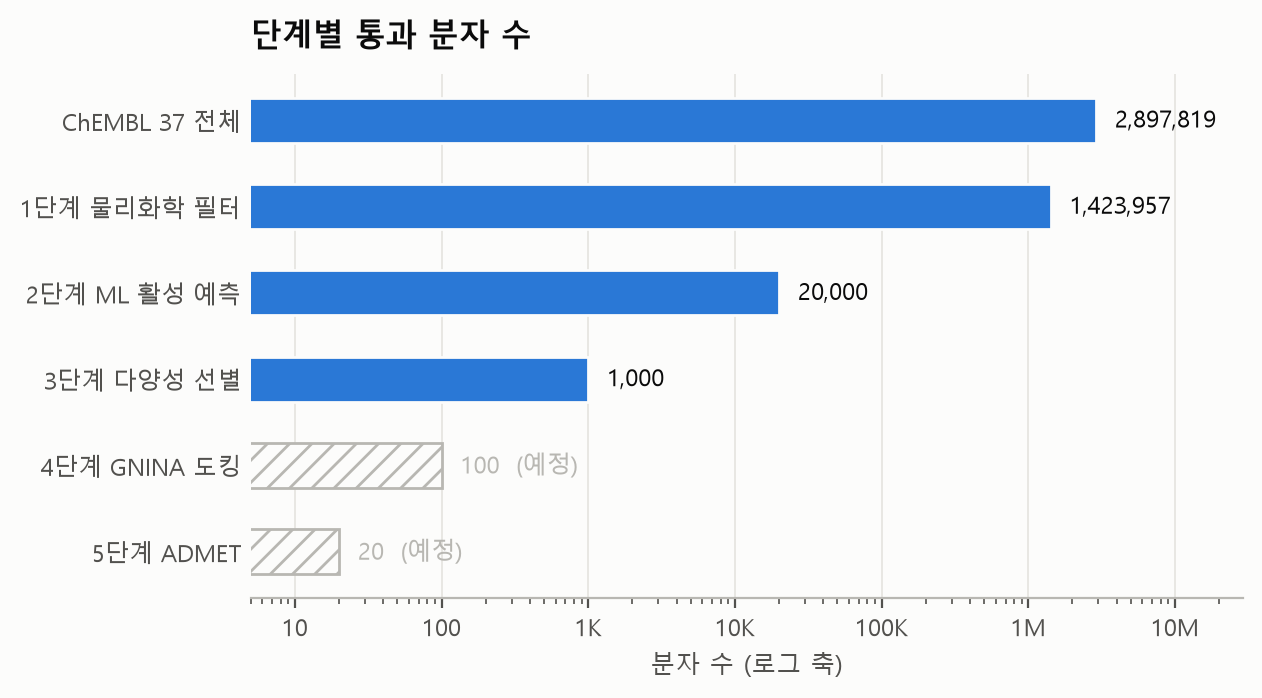
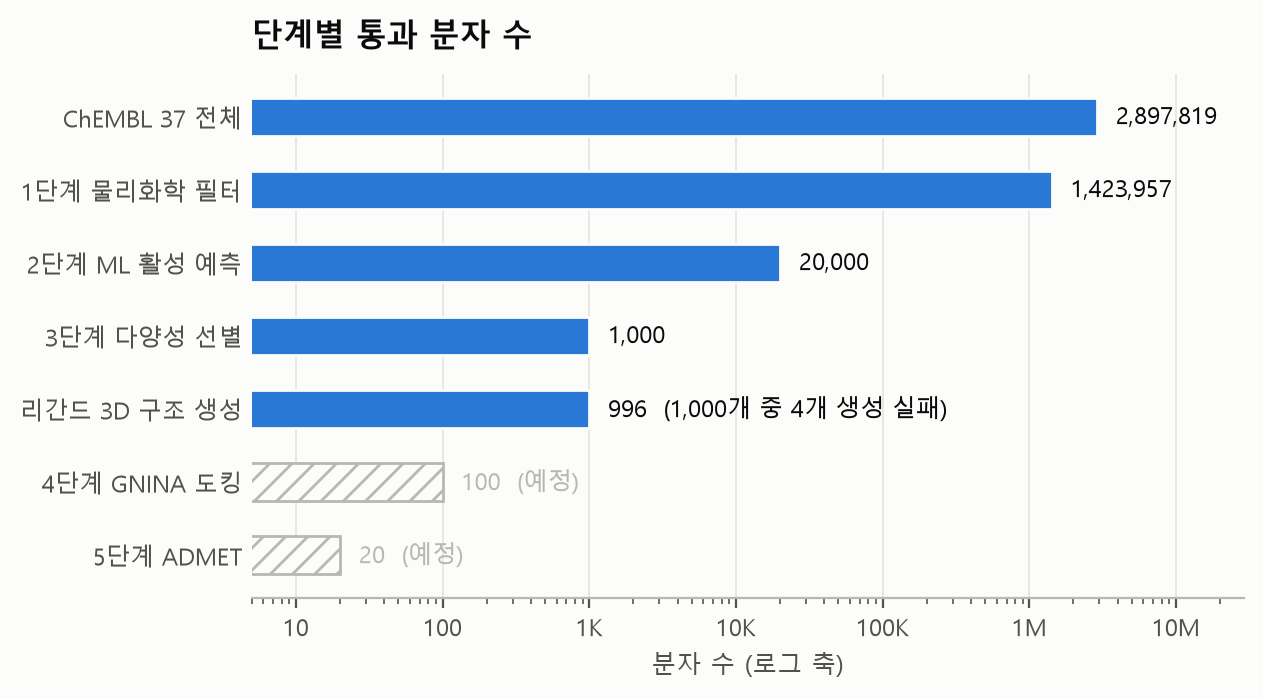
깔때기 그림에 3D 구조 생성 996개 단계 추가, 4·5단계 그림 스크립트 작성
fig6 이 3단계 1,000개에서 4단계로 바로 이어져 있었다. 실제 도킹 입력은
996개이고 3D 구조 생성에서 4개가 실패했다(MMFF 힘 상수 없음 3, embed 실패 1).
README·10단계 요약에는 적혀 있고 그림에만 빠져 있어 숫자가 어긋났다.
로그 축에서 1,000과 996은 길이가 같아 보이므로 실패 개수를 글자로 적었다.

scripts/14_figures_docking.py 를 새로 추가했다. 도킹·ADMET 결과가 아직
없으므로 합성 데이터로 검증했고, 입력이 없으면 해당 그림만 건너뛴다.
부분 결과로 돌리면 제목에 부분 결과 표시가 찍혀 보고서에 잘못 들어가는 것을 막는다.

  fig8  도킹 점수 분포 / Vina vs CNNaffinity / 2단계 ML 점수 vs 4단계 도킹 점수
  fig9  ADMET 항목별 탈락 + 백분위 80·90·95 민감도
  fig10 최종 후보 2D 구조 격자

fig8 (c) 패널은 결과를 보기 전에 넣기로 정했다. 상관이 높게 나오면 4단계가
새 정보를 주지 못한다는 뜻이고 깔때기 근거가 흔들린다. 어느 쪽이든 그대로 싣는다.

검증에서 버그 두 개를 고쳤다. 상위 100개 강조를 rank_mean <= 100 으로 자르면
두 점수가 어긋날 때 개수가 모자란다(42개). "90.0".rstrip(".0") 은 문자 단위라
"9" 가 된다.

도킹 진행 375/996 을 README 와 일지에 반영했다.

diff --git a/scripts/14_figures_docking.py b/scripts/14_figures_docking.py
@@ -1,0 +1,290 @@
+"""
+보고서용 그림 — 도킹·ADMET·최종 후보 (4·5단계).
+
+  fig8_docking_scores.png   (a) Vina 점수 분포 / (b) Vina vs CNNaffinity /
+                            (c) 2단계 ML 점수 vs 4단계 도킹 점수
+  fig9_admet_funnel.png     (a) 항목별 탈락 수 / (b) 백분위 기준 민감도
+  fig10_candidates.png      최종 후보 2D 구조 격자 (보고서 필수 포함 3번)
+
+색·서체는 `06_figures.py` 의 것을 그대로 불러 쓴다. 새 색을 만들지 않는다.
+
+**입력이 없으면 그 그림만 건너뛴다.** 도킹이 끝나기 전에도 돌릴 수 있고,
+부분 결과(예: 375/996)로 돌리면 그린 분자 수를 제목에 그대로 적는다.
+부분 결과로 그린 그림을 보고서에 넣지 않는다 — 확인용이다.
+
+(c) 패널을 넣는 이유: 2단계 ML 점수와 4단계 도킹 점수가 강하게 상관하면
+4단계가 새로운 정보를 주지 못한다는 뜻이다. 깔때기를 쌓은 근거가 되므로
+상관이 **낮다는 것** 또는 높다는 것을 실측해서 보인다. 결과를 보기 전에
+이 패널을 그리기로 정했다.
+
+실행:
+    python scripts/14_figures_docking.py
+    python scripts/14_figures_docking.py --docking experiment/11_docking
+"""
+
+import argparse
+import importlib.util
+import json
+from pathlib import Path
+
+import matplotlib
+matplotlib.use("Agg")
+import matplotlib.pyplot as plt
+import numpy as np
+import pandas as pd
+
+HERE = Path(__file__).resolve().parent
+N_DOCK_TOTAL = 996          # 도킹 입력 수 (10단계 리간드 준비 결과)
+
+
+def load_style():
+    """06_figures.py 의 스타일·색을 재사용한다 (모듈 이름이 숫자로 시작해 import 불가)."""
+    spec = importlib.util.spec_from_file_location("fig06", HERE / "06_figures.py")
+    mod = importlib.util.module_from_spec(spec)
+    spec.loader.exec_module(mod)
+    mod.setup_style()
+    return mod
+
+
+def partial_note(n):
+    """부분 결과면 제목에 그대로 적는다. 숨기지 않는다."""
+    if n < N_DOCK_TOTAL:
+        return f"  ⚠ 부분 결과 {n}/{N_DOCK_TOTAL}"
+    return ""
+
+
+# ---- 그림 8: 도킹 점수 --------------------------------------------------------
+
+def fig_docking_scores(S, dock, n_top, outpath):
+    ok = dock.dropna(subset=["vina_top", "cnn_affinity_top"]).copy()
+    n = len(ok)
+    note = partial_note(n)
+
+    fig, axes = plt.subplots(1, 3, figsize=(13.4, 3.7))
+
+    # (a) Vina 점수 분포 — 상위 n_top 경계를 함께 그린다
+    ax = axes[0]
+    ax.grid(axis="y", zorder=0)
+    ax.set_axisbelow(True)
+    ax.hist(ok["vina_top"], bins=40, color=S.BLUE, zorder=3)
+    cut = ok["vina_top"].nsmallest(min(n_top, n)).max()
+    ax.axvline(cut, color=S.ORANGE, lw=1.6, ls="--", zorder=4)
+    ax.annotate(f"상위 {min(n_top, n)}개 경계\n{cut:.2f} kcal/mol",
+                xy=(cut, 1), xycoords=("data", "axes fraction"),
+                xytext=(-7, -8), textcoords="offset points",
+                ha="right", va="top", fontsize=8.2, color=S.ORANGE, zorder=5,
+                bbox=dict(boxstyle="round,pad=0.3", facecolor=S.SURFACE,
+                          edgecolor="none"))
+    n_pos = int((ok["vina_top"] > 0).sum())
+    if n_pos:
+        ax.text(0.98, 0.72, f"양수 점수 {n_pos}개\n(결합 불성립)",
+                transform=ax.transAxes, ha="right", va="top", fontsize=8.2,
+                color=S.INK2)
+    ax.set_xlabel("Vina 점수 (kcal/mol) — 낮을수록 결합에 유리")
+    ax.set_ylabel("분자 수")
+    ax.set_title(f"(a) 도킹 점수 분포 (n={n:,}){note}", loc="left", pad=10)
+
+    # (b) Vina vs CNNaffinity — 두 점수가 같은 순위를 주는가
+    ax = axes[1]
+    ax.grid(zorder=0)
+    ax.set_axisbelow(True)
+    ax.plot(ok["vina_top"], ok["cnn_affinity_top"], "o", ms=3.4, lw=0,
+            color=S.MUTED, alpha=0.55, zorder=3, label=f"전체 (n={n:,})")
+
+    # 두 점수의 순위 평균으로 고른 상위 n_top 을 강조한다 (11 노트북과 같은 규칙)
+    # 11 노트북과 같이 rank_mean 으로 정렬해 앞에서 n_top 개를 가져온다.
+    # `rank_mean <= n_top` 으로 자르면 두 점수가 어긋날 때 개수가 모자란다.
+    r = (ok["vina_top"].rank(ascending=True)
+         + ok["cnn_affinity_top"].rank(ascending=False)) / 2
+    sel = ok.loc[r.nsmallest(min(n_top, n)).index]
+    ax.plot(sel["vina_top"], sel["cnn_affinity_top"], "s", ms=4.6, lw=0,
+            color=S.BLUE, zorder=4, markeredgecolor=S.SURFACE,
+            markeredgewidth=0.8, label=f"순위 평균 상위 {len(sel)}개")
+
+    rho = ok[["vina_top", "cnn_affinity_top"]].corr(method="spearman").iloc[0, 1]
+    ax.annotate(f"Spearman ρ = {rho:.3f}",
+                xy=(0.04, 0.96), xycoords="axes fraction", va="top", ha="left",
+                fontsize=8.6, color=S.INK2,
+                bbox=dict(boxstyle="round,pad=0.4", facecolor=S.SURFACE,
+                          edgecolor=S.MUTED, linewidth=0.7))
+    ax.set_xlabel("Vina 점수 (kcal/mol)")
+    ax.set_ylabel("CNNaffinity — 높을수록 유리")
+    ax.set_title("(b) 물리 점수와 CNN 점수의 일치도", loc="left", pad=10)
+    ax.legend(loc="lower left", fontsize=8)
+
+    # (c) 2단계 ML 점수 vs 4단계 도킹 점수 — 단계가 독립적인 정보를 주는가
+    ax = axes[2]
+    ax.grid(zorder=0)
+    ax.set_axisbelow(True)
+    if "ml_score" in ok.columns and ok["ml_score"].notna().any():
+        ax.plot(ok["ml_score"], ok["vina_top"], "o", ms=3.4, lw=0,
+                color=S.AQUA, alpha=0.6, zorder=3)
+        rho2 = ok[["ml_score", "vina_top"]].corr(method="spearman").iloc[0, 1]
+        ax.annotate(f"Spearman ρ = {rho2:.3f}",
+                    xy=(0.04, 0.96), xycoords="axes fraction", va="top", ha="left",
+                    fontsize=8.6, color=S.INK2,
+                    bbox=dict(boxstyle="round,pad=0.4", facecolor=S.SURFACE,
+                              edgecolor=S.MUTED, linewidth=0.7))
+        ax.set_xlabel("2단계 RF 예측 확률")
+        ax.set_ylabel("4단계 Vina 점수 (kcal/mol)")
+    else:
+        ax.text(0.5, 0.5, "ml_score 컬럼 없음", transform=ax.transAxes,
+                ha="center", va="center", color=S.MUTED)
+    ax.set_title("(c) 2단계 ML 점수와 4단계 도킹 점수", loc="left", pad=10)
+
+    fig.tight_layout()
+    fig.savefig(outpath)
+    plt.close(fig)
+    print("저장:", outpath)
+
+
+# ---- 그림 9: ADMET 깔때기 -----------------------------------------------------
+
+def fig_admet_funnel(S, stats, outpath):
+    fig, axes = plt.subplots(1, 2, figsize=(9.6, 3.5))
+
+    # (a) 항목별 탈락 수 — 중복 위반이 있으므로 합이 전체 탈락 수와 다르다
+    ax = axes[0]
+    ax.grid(axis="x", zorder=0)
+    ax.set_axisbelow(True)
+    hf = stats["hard_filters"]
+    names = [hf[k]["label"] for k in hf]
+    vals = [hf[k]["n_failed"] for k in hf]
+    yy = np.arange(len(names))[::-1]
+    bars = ax.barh(yy, vals, height=0.55, color=S.ORANGE, zorder=3)
+    for b, v in zip(bars, vals):
+        ax.text(b.get_width() + max(vals) * 0.02, b.get_y() + b.get_height() / 2,
+                f"{v}", va="center", fontsize=8.5, color=S.INK2)
+    ax.set_yticks(yy, names, fontsize=8.5)
+    ax.set_xlim(0, max(max(vals), 1) * 1.22)
+    ax.set_xlabel("탈락 분자 수 (승인 약물 백분위 > 90)")
+    ax.set_title(f"(a) 항목별 탈락 — 입력 {stats['n_input']}개 중 "
+                 f"{stats['n_failed']}개 탈락", loc="left", pad=10)
+    # 축 안에 두면 막대와 겹친다. x 축 라벨 아래 여백으로 내린다.
+    ax.annotate("한 분자가 여러 항목을 위반할 수 있어 합이 전체 탈락 수와 다르다",
+                xy=(0, -0.36), xycoords="axes fraction", ha="left", va="top",
+                fontsize=7.8, color=S.MUTED)
+    ax.tick_params(axis="y", length=0)
+    for s in ("left",):
+        ax.spines[s].set_visible(False)
+
+    # (b) 기준 민감도 — 결과가 문턱값 하나에 좌우되지 않음을 보인다
+    ax = axes[1]
+    ax.grid(axis="y", zorder=0)
+    ax.set_axisbelow(True)
+    sens = stats["sensitivity_n_passed"]
+    cuts = sorted(sens, key=lambda c: float(c))
+    # "drugbank_approved_percentile > 90.0" 에서 90 을 뽑는다.
+    # rstrip(".0") 은 문자 단위라 "90.0" 을 "9" 로 만든다 — 수로 바꿔서 비교한다.
+    adopted = float(stats["criterion"].split(">")[-1])
+    colors = [S.BLUE if float(c) == adopted else S.MUTED for c in cuts]
+    bars = ax.bar([f"> {c}" for c in cuts], [sens[c] for c in cuts],
+                  width=0.52, color=colors, zorder=3)
+    for b, c in zip(bars, cuts):
+        ax.text(b.get_x() + b.get_width() / 2, b.get_height() + 0.6,
+                f"{sens[c]}" + ("\n← 채택" if float(c) == adopted else ""),
+                ha="center", va="bottom", fontsize=8.4,
+                color=S.INK if float(c) == adopted else S.INK2)
+    ax.set_ylim(0, max(sens.values()) * 1.3)
+    ax.set_xlabel("탈락 기준 — 승인 약물 분포 백분위")
+    ax.set_ylabel("통과 분자 수")
+    # 제목으로 결론을 단정하지 않는다. 기준을 바꾼 결과는 막대가 보여 준다.
+    ax.set_title("(b) 탈락 기준에 따른 통과 개수", loc="left", pad=10)
+
+    fig.tight_layout()
+    fig.savefig(outpath)
+    plt.close(fig)
+    print("저장:", outpath)
+
+
+# ---- 그림 10: 최종 후보 구조 --------------------------------------------------
+
+def fig_candidates(S, final, outpath, n_show=8):
+    """최종 후보의 2D 구조. 보고서 필수 포함 3번(후보 물질 구조)에 쓴다.
+
+    RDKit 이 그린 격자 이미지를 matplotlib 축에 얹고, 분자마다 도킹 점수를
+    캡션으로 단다. 점수는 **계산 예측값**이므로 단위를 반드시 함께 적는다.
+    """
+    from rdkit import Chem, RDLogger
+    from rdkit.Chem import Draw
+    RDLogger.DisableLog("rdApp.*")
+
+    df = final.head(n_show)
+    mols, legends = [], []
+    for _, r in df.iterrows():
+        m = Chem.MolFromSmiles(r["smiles"])
+        if m is None:
+            continue
+        mols.append(m)
+        # RDKit 격자 범례는 줄 간격을 좁게 잡아 두 줄로 쓰면 글자가 겹친다.
+        # 한 줄로 쓰고 그만큼 칸 너비를 넓힌다.
+        # 가운뎃점(·)은 RDKit 범례 글꼴에 없어 빈칸으로 빠진다. 공백으로 띄운다.
+        legends.append(f"{int(r['final_rank'])}. {r['chembl_id']}     "
+                       f"Vina {r['vina_top']:.2f}     "
+                       f"CNNaff {r['cnn_affinity_top']:.2f}")
+    if not mols:
+        print("건너뜀: 그릴 구조가 없다")
+        return
+
+    ncol = 4
+    img = Draw.MolsToGridImage(mols, molsPerRow=ncol, subImgSize=(340, 265),
+                               legends=legends, returnPNG=False)
+    # 축 비율을 이미지 비율에 맞춰야 위아래 빈 공간이 생기지 않는다
+    fig, ax = plt.subplots(figsize=(img.width / 150, img.height / 150))
+    ax.imshow(img)
+    ax.axis("off")
+    ax.set_title(f"계산 예측 기준 상위 {len(mols)}개 후보의 2D 구조",
+                 loc="left", pad=8)
+    fig.text(0.0, -0.01,
+             "Vina 점수 단위는 kcal/mol. 두 점수 모두 도킹 계산값이고 "
+             "실험으로 측정한 결합 친화도가 아니다.",
+             ha="left", va="top", fontsize=7.8, color=S.INK2)
+    fig.savefig(outpath, bbox_inches="tight")
+    plt.close(fig)
+    print("저장:", outpath)
+
+
+# ---- main --------------------------------------------------------------------
+
+def main():
+    ap = argparse.ArgumentParser()
+    ap.add_argument("--docking", default="experiment/11_docking")
+    ap.add_argument("--admet", default="experiment/13_admet")
+    ap.add_argument("--outdir", default="experiment/06_figures")
+    ap.add_argument("--n-top", type=int, default=100,
+                    help="도킹에서 5단계로 넘기는 개수")
+    args = ap.parse_args()
+
+    S = load_style()
+    out = Path(args.outdir)
+    out.mkdir(parents=True, exist_ok=True)
+    drew = 0
+
+    dpath = Path(args.docking) / "11_docking_results.csv"
+    if dpath.exists():
+        dock = pd.read_csv(dpath).drop_duplicates("dock_id", keep="last")
+        fig_docking_scores(S, dock, args.n_top, out / "fig8_docking_scores.png")
+        drew += 1
+    else:
+        print(f"건너뜀 (입력 없음): {dpath}")
+
+    spath = Path(args.admet) / "13_admet_stats.json"
+    if spath.exists():
+        fig_admet_funnel(S, json.loads(spath.read_text(encoding="utf-8")),
+                         out / "fig9_admet_funnel.png")
+        drew += 1
+    else:
+        print(f"건너뜀 (입력 없음): {spath}")
+
+    fpath = Path(args.admet) / "13_final_candidates.csv"
+    if fpath.exists():
+        fig_candidates(S, pd.read_csv(fpath), out / "fig10_candidates.png")
+        drew += 1
+    else:
+        print(f"건너뜀 (입력 없음): {fpath}")
+
+    print(f"\n그림 {drew}개 생성")
+
+
+if __name__ == "__main__":
+    main()

diff --git a/scripts/12_figures_screen.py b/scripts/12_figures_screen.py
@@ -64,14 +64,21 @@ def load_style():
 
 # ---- 그림 3: 깔때기 ----------------------------------------------------------
 
-def fig_funnel(S, stats08, stats09, outpath):
-    """단계별 분자 수. 2,897,819 → 1,000 은 네 자리 수 범위이므로 로그 축으로 그린다."""
+def fig_funnel(S, stats08, stats09, stats10, outpath):
+    """단계별 분자 수. 2,897,819 → 996 은 네 자리 수 범위이므로 로그 축으로 그린다.
+
+    ⚠ 3단계에서 1,000개를 뽑았지만 도킹 입력은 996개다. 3D 구조 생성에서 4개가
+    실패했다(MMFF 힘 상수 없음 3, embed 실패 1). 그림에서 1,000 → 4단계로 바로
+    이으면 숫자가 README·10단계 요약과 어긋나므로 **별도 칸으로 드러낸다.**
+    """
     done = [
         ("ChEMBL 37 전체", 2897819),
         ("1단계 물리화학 필터", 1423957),
         ("2단계 ML 활성 예측", stats08["top_n_saved"]),
         ("3단계 다양성 선별", stats09["selected"]),
     ]
+    if stats10:
+        done.append(("리간드 3D 구조 생성", stats10["prepared"]))
     planned = [("4단계 GNINA 도킹", 100), ("5단계 ADMET", 20)]
 
     labels = [d[0] for d in done + planned]
@@ -89,7 +96,13 @@ def fig_funnel(S, stats08, stats09, outpath):
                 color=S.SURFACE if is_planned else S.BLUE,
                 edgecolor=S.MUTED if is_planned else S.SURFACE,
                 linewidth=1.0, hatch="///" if is_planned else None)
-        ax.text(v * 1.35, yy, f"{v:,}" + ("  (예정)" if is_planned else ""),
+        note = ""
+        if is_planned:
+            note = "  (예정)"
+        elif stats10 and labels[i] == "리간드 3D 구조 생성":
+            # 1,000 과 996 은 로그 축에서 길이가 같아 보인다. 숫자로만 읽히므로 적는다.
+            note = f"  (1,000개 중 {stats10['input'] - stats10['prepared']}개 생성 실패)"
+        ax.text(v * 1.35, yy, f"{v:,}{note}",
                 va="center", ha="left", fontsize=8.5,
                 color=S.MUTED if is_planned else S.INK)
 
@@ -292,7 +305,9 @@ def main():
     fig_ml_screen(S, hist, known, stats08, outdir / "fig4_ml_screen.png")
     fig_diversity(S, nn, sel, known_actives_properties(args.split), stats09,
                   outdir / "fig5_diversity.png")
-    fig_funnel(S, stats08, stats09, outdir / "fig6_pipeline_funnel.png")
+    p10 = Path("experiment/10_ligands/10_ligand_prep_stats.json")
+    stats10 = json.loads(p10.read_text(encoding="utf-8")) if p10.exists() else None
+    fig_funnel(S, stats08, stats09, stats10, outdir / "fig6_pipeline_funnel.png")
 
 
 if __name__ == "__main__":

diff --git a/skill/00_log.md b/skill/00_log.md
@@ -269,3 +269,35 @@ lead-like)은 미리 정해 그대로 적용했고 숫자를 맞추려고 조건
 
 **설치 환경** — conda `chemprop-env` (Python 3.11):
 admet-ai 2.0.1 / chemprop 2.3.1 / torch 2.15.0+cpu / rdkit 2026.03.6. 전부 CPU.
+
+**도킹 진행 갱신 (11/14 저녁)** — 누적 **375 / 996 (37.7%)**. 이번 세션에 156개를 돌렸고
+다시 Colab 무료 GPU 사용량 제한으로 중단됐다. 남은 621개는 중앙값 77~78초/개로 약 13~14시간,
+하루 5시간 기준 3일이다. 11/20 계산 종료 목표에는 들어간다.
+세션당 실측 처리량은 219개(11/13) → 156개(11/14)로, 할당량이 세션 길이를 결정한다.
+
+**그림 — 4·5단계용 스크립트를 결과보다 먼저 만들었다 (`scripts/14_figures_docking.py`)**
+
+도킹이 할당량으로 멈춘 동안 그림 쪽을 점검했고, 세 가지를 했다.
+
+1. **fig6 깔때기의 숫자 누락을 고쳤다.** 3단계 1,000개에서 4단계로 바로 이어져 있었는데
+   실제 도킹 입력은 996개다. 3D 구조 생성에서 4개가 실패했다(MMFF 힘 상수 없음 3,
+   embed 실패 1). README·10단계 요약에는 적혀 있고 그림에만 빠져 있었다.
+   로그 축에서 1,000과 996은 길이가 같아 보이므로 **실패 개수를 글자로 적었다.**
+2. **fig8·9·10 스크립트를 미리 작성하고 합성 데이터로 검증했다.** 도킹·ADMET 결과가
+   없어도 돌아가고(입력 없으면 그 그림만 건너뛴다), 결과가 나오면 명령 한 줄이면 된다.
+   부분 결과로 돌리면 제목에 `⚠ 부분 결과 N/996` 이 찍히게 해 보고서에 잘못 들어가는 것을 막는다.
+3. **그림 제목에서 결론을 단정하던 것을 고쳤다.** 처음에 (c) 패널을
+   "ML 점수는 도킹 점수를 대신하지 못한다", (b) 패널을 "문턱값을 바꿔도 순서는 유지된다"
+   로 적었는데, **둘 다 아직 보지 않은 결과를 단정한 제목이다.** 중립 제목으로 바꿨다.
+   판정은 그림의 ρ 값과 막대가 하게 둔다.
+
+**fig8 (c) 패널을 결과 전에 넣기로 정한 이유** — 2단계 ML 점수와 4단계 도킹 점수의
+Spearman 상관을 그린다. 상관이 높으면 4단계가 새 정보를 주지 못한다는 뜻이고,
+깔때기를 쌓은 근거 자체가 흔들린다. **어느 쪽으로 나오든 그대로 싣는다**고
+결과를 보기 전에 정해 둔다.
+
+**검증 중 잡은 버그 두 개** (합성 데이터로 돌려 보지 않았으면 못 찾았다)
+- 상위 100개 강조가 42개만 잡혔다. `rank_mean <= 100` 으로 자르면 두 점수가 어긋날 때
+  개수가 모자란다. 11 노트북과 같이 **정렬 후 앞에서 100개**를 가져오도록 고쳤다.
+- 채택 기준 막대 강조가 안 됐다. `"90.0".rstrip(".0")` 이 문자 단위라 `"9"` 가 된다.
+  수로 바꿔 비교하도록 고쳤다.
